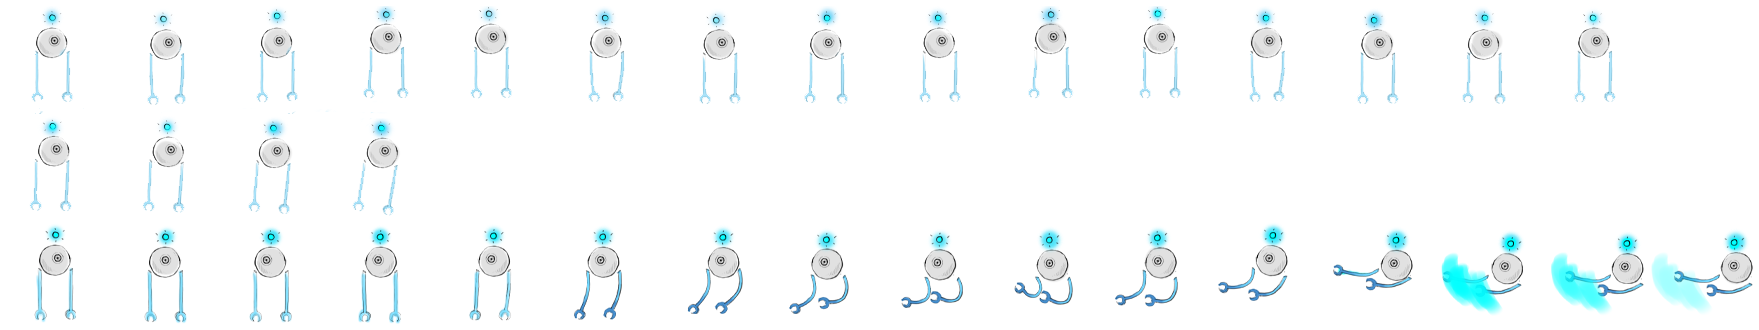
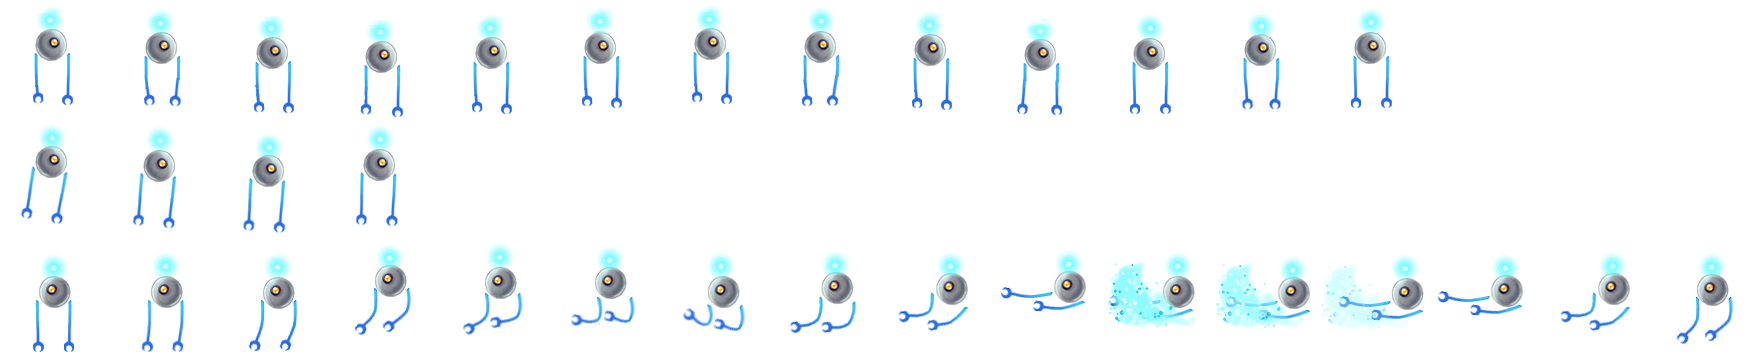
inimigo 3 e secundário corrigidos.

diff --git a/src/Enemy3.cpp b/src/Enemy3.cpp
@@ -1,7 +1,7 @@
 #include "Enemy3.h"
 #include "Game.h"
 
-Enemy3::Enemy3(float x, float y, GameObject* planet, float initialRotation, float alturaIncial) : sp("img/enemy3.png", 0.35, 2, 3), speed(), startPos(x, y), dmgCD(), knockback(), shootcd()
+Enemy3::Enemy3(float x, float y, GameObject* planet, float initialRotation, float alturaIncial) : sp("img/enemy3.png", 0.30, 3, 7), speed(), startPos(x, y), dmgCD(), knockback(), shootcd()
 {
 	this->planet = planet;
 	sp.SetScaleX(0.5);
@@ -11,13 +11,13 @@ Enemy3::Enemy3(float x, float y, GameObject* planet, float initialRotation, floa
 	rotation = initialRotation;
 	float arc = rotation*3.1415/180;
 	this->alturaInicial = alturaInicial;
-	box.setX(planet->box.getCenterX() + ((planet->box.getW()/2 + planet->box.getCenterY() + alturaInicial)*cos(arc)) - (box.getW()/2));
-	box.setY(planet->box.getCenterY()  + ((planet->box.getH()/2 + planet->box.getCenterY()  + alturaInicial)*sin(arc)) - (box.getH()/2));
+	box.setX(planet->box.getCenterX() + ((planet->box.getW()/2 + planet->box.getCenterY() + alturaInicial)*cos(arc)));
+	box.setY(planet->box.getCenterY()  + ((planet->box.getH()/2 + planet->box.getCenterY()  + alturaInicial)*sin(arc)));
 	hp = 50;
 	speed.x = 2;
 	speed.y = 0;
 	orientation = LEFT;
-	sp.SetLoop(0, 5);
+	sp.SetLoop(4, 5);
 	knockback.Update(10);
 }
 
@@ -44,6 +44,7 @@ void Enemy3::Update(float dt)
 	}
 	else if (currentPos->getDist(*playerPos) <= 600
 			&& currentPos->getDist(*playerPos) >= 300) {
+		sp.SetLoop(4, 5);
 		if (playerPos->x > currentPos->x) {
 			orientation = RIGHT;
 			sp.SetFlipH(true);
@@ -55,7 +56,8 @@ void Enemy3::Update(float dt)
 		}
 		sp.Update(dt);
 	} else if(currentPos->getDist(*playerPos) <= 300) {
-		if (sp.GetCurrentFrame() == 4 && shootcd.Get() > 0.35)
+		sp.SetLoop(0, 13);
+		if ((sp.GetCurrentFrame() == 4 || sp.GetCurrentFrame() == 11) && shootcd.Get() > 0.35)
 		{
 			if (playerPos->x > currentPos->x) {
 				orientation = RIGHT;
@@ -115,13 +117,36 @@ void Enemy3::Shoot (Point pos)
 	delete(pspeed);
 
 	float xBullet;
+	float yBullet;
 
 	if(orientation == LEFT)
-		xBullet = box.getX();
+	{
+		if (sp.GetCurrentFrame() == 4)
+		{
+			xBullet = box.getX();
+			yBullet = box.getCenterY();
+		}
+		else
+		{
+			xBullet = box.getX()+ box.getW()/2;
+			yBullet = box.getCenterY() + box.getH()/2 - 20;
+		}
+	}
 	else
-		xBullet = box.getX()+box.getW();
+	{
+		if (sp.GetCurrentFrame() == 4)
+		{
+			xBullet = box.getX()+ box.getW();
+			yBullet = box.getCenterY();
+		}
+		else
+		{
+			xBullet = box.getX() + box.getW()/2;
+			yBullet = box.getCenterY() + box.getH()/2 - 20;
+		}
+	}
 
-	Bullet* bullet = new Bullet(xBullet,box.getCenterY(),angle,speed,2000,"img/enemy3_bullet.png",true,4);
+	Bullet* bullet = new Bullet(xBullet,yBullet,angle,speed,2000,"img/enemy3_bullet.png",true,4);
 	Game::GetInstance().GetCurrentState().AddObject(bullet);
 }
 

diff --git a/src/Support.cpp b/src/Support.cpp
@@ -20,7 +20,7 @@ Support::Support() : sp("img/support.png",0.1,3,16), timer()
 	attacking = false;
 
 
-	sp.SetLoop(0,14);
+	sp.SetLoop(0,12);
 }
 
 Support::~Support()
@@ -45,24 +45,27 @@ void Support::Update(float dt)
 		sp.SetFlipH(true);
 	}
 
-	if (sp.GetCurrentFrame() == 14)
-		sp.SetLoop(16,19);
-	else if (sp.GetCurrentFrame() == 19)
-		sp.SetLoop(0,14);
-
 	if (sp.GetCurrentFrame() == 47)
 	{
-		attacking = false;
-		sp.SetLoop(16,19);
+		sp.SetLoop(0,12);
 	}
 
-	if(InputManager::GetInstance().KeyPress(SDLK_s) || attacking)
+	if(InputManager::GetInstance().KeyPress(SDLK_s))
 	{
 		Sound* sound = new Sound("audio/robo.wav");
 		sound->Play(0);
 		delete(sound);
-		attacking = true;
 		sp.SetLoop(32, 47);
+	}
+	attacking = (sp.GetCurrentFrame() == 42);
+
+	if(InputManager::GetInstance().IsKeyDown(SDLK_SPACE))
+	{
+		sp.SetLoop(16,19);
+	}
+	else
+	{
+		sp.SetLoop(0,12);
 	}
 
 	box.setX(Player::player->box.getX() + c);
